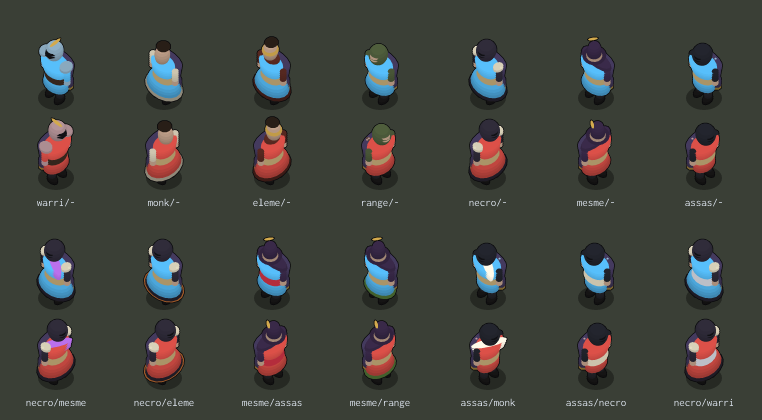
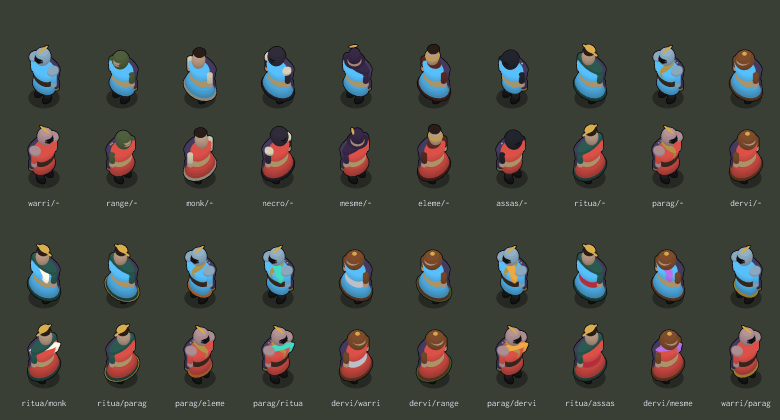
#4180: ritualist, paragon and dervish outfits on the stacked figure (#4274)
From the outfit study: the ritualist in a wrap over a long skirt with a
mantle and a feathered headdress, the paragon in plate and helm under a
tabard with three spears on its back, the dervish in a robe and a
turban with a gold jewel. Builders in the new
outfits-ritualist-paragon-dervish.ts; sprite-stack.ts only dispatches.

The study's tabard showed nothing of the paragon's cloth, so it is a
stripe of it down the plate. Every profession now has an outfit, so
PROFESSION_OUTFITS is a full Record and outfitOf loses its "not drawn
yet" fallback. The frame-fit test takes one accent per kind: a tone
moves no point, and 11 accents x 10 outfits ran past 5 s.

diff --git a/apps/web/src/render/profession-outfits.ts b/apps/web/src/render/profession-outfits.ts
@@ -8,19 +8,24 @@ import type { ProfessionId } from "@vibewars/game-core";
  * a new outfit adds its kinds here and a case to each of its builders.
  */
 
-/** The torso: a warrior's plate, a caster's robe, a short coat, an assassin's tight wrap. */
-export type TorsoKind = "plate" | "robe" | "coat" | "wrap";
+/**
+ * The torso: a warrior's plate, a caster's robe, a short coat, a tight
+ * wrap, a paragon's plate under a tabard.
+ */
+export type TorsoKind = "plate" | "robe" | "coat" | "wrap" | "tabard";
 /** The legs: trousers, or a long robe skirt that hides them. */
 export type LegKind = "trousers" | "robe";
 /** Over the shoulders: pauldrons, a high cloth collar, a cloth mantle, bone spikes, or nothing. */
 export type ShoulderKind = "pauldrons" | "collar" | "mantle" | "spikes" | "none";
 /**
  * The head: a visored helm, a hood, a cowl that hides the face, a
- * wide-brimmed plumed hat, a bare head with or without a circlet.
+ * wide-brimmed plumed hat, a turban, a feathered headdress, a bare head
+ * with or without a circlet.
  */
-export type HeadKind = "helm" | "hood" | "cowl" | "hat" | "circlet" | "bare";
-/** On the back, behind the torso: a quiver, or two crossed blades. */
-export type BackKind = "quiver" | "blades";
+export type HeadKind =
+  "helm" | "hood" | "cowl" | "hat" | "turban" | "headdress" | "circlet" | "bare";
+/** On the back, behind the torso: a quiver, two crossed blades, or a bundle of spears. */
+export type BackKind = "quiver" | "blades" | "spears";
 
 /**
  * An outfit: a kind per slot, and its `cloth`, the second fabric, a dark
@@ -51,8 +56,8 @@ export const WARRIOR_OUTFIT: Outfit = {
   cloth: 0x4a4e58,
 };
 
-/** Each primary's outfit; one with none yet wears the warrior's. */
-export const PROFESSION_OUTFITS: Readonly<Partial<Record<ProfessionId, Outfit>>> = {
+/** Each primary's outfit. */
+export const PROFESSION_OUTFITS: Readonly<Record<ProfessionId, Outfit>> = {
   warrior: WARRIOR_OUTFIT,
   ranger: {
     torso: "coat",
@@ -102,6 +107,30 @@ export const PROFESSION_OUTFITS: Readonly<Partial<Record<ProfessionId, Outfit>>>
     back: "blades",
     cloth: 0x22242c,
   },
+  ritualist: {
+    torso: "wrap",
+    legs: "robe",
+    shoulders: "mantle",
+    head: "headdress",
+    back: undefined,
+    cloth: 0x2a5a52,
+  },
+  paragon: {
+    torso: "tabard",
+    legs: "trousers",
+    shoulders: "pauldrons",
+    head: "helm",
+    back: "spears",
+    cloth: 0xb89a4a,
+  },
+  dervish: {
+    torso: "robe",
+    legs: "robe",
+    shoulders: "none",
+    head: "turban",
+    back: undefined,
+    cloth: 0x7a4a2a,
+  },
 };
 
 /** Each secondary's accent; one with none adds nothing. */
@@ -118,9 +147,9 @@ export const SECONDARY_ACCENTS: Readonly<Partial<Record<ProfessionId, Accent>>> 
   dervish: { kind: "sash", tone: 0xe0a040 },
 };
 
-/** What a body of `primary` wears: the warrior's outfit for none, or one not drawn yet. */
+/** What a body of `primary` wears: the warrior's outfit for none. */
 export function outfitOf(primary: ProfessionId | undefined): Outfit {
-  return (primary === undefined ? undefined : PROFESSION_OUTFITS[primary]) ?? WARRIOR_OUTFIT;
+  return primary === undefined ? WARRIOR_OUTFIT : PROFESSION_OUTFITS[primary];
 }
 
 /** The accent a `secondary` adds: none for no secondary. */

diff --git a/apps/web/src/render/sprite-stack.ts b/apps/web/src/render/sprite-stack.ts
@@ -11,6 +11,12 @@ import {
   wrapSkirtRadii,
 } from "./outfits-necromancer-mesmer-assassin.js";
 import {
+  headdressSlices,
+  spearsSlices,
+  tabardSlices,
+  turbanSlices,
+} from "./outfits-ritualist-paragon-dervish.js";
+import {
   PROFESSION_OUTFITS,
   WARRIOR_OUTFIT,
   type Accent,
@@ -247,6 +253,7 @@ function skirtRadii(outfit: Outfit): readonly number[] {
     case "coat":
       return [0.7, 0.66, 0.62, 0.58];
     case "plate":
+    case "tabard":
     case "robe":
       return [0.62, 0.6, 0.58, 0.56];
     case "wrap":
@@ -278,7 +285,11 @@ function skirtSlices(
     cape([capeBack(motion, -0.3 - 0.06 * lean, 0.32, capeLength, 1 - i / 11)], 0.5 + 0.06 * i);
     push([ellipse(x, 0, r * 0.72, r)], "team", 0.6 + 0.07 * i, true);
   });
-  push([ellipse(0.12 * lean, 0, 0.4, 0.56)], outfit.torso === "plate" ? "belt" : "rope", 0.9);
+  push(
+    [ellipse(0.12 * lean, 0, 0.4, 0.56)],
+    outfit.torso === "plate" || outfit.torso === "tabard" ? "belt" : "rope",
+    0.9,
+  );
   if (accent?.kind === "belt") {
     push([ellipse(0.12 * lean, 0, 0.44, 0.6)], "accent", 0.92, true);
   }
@@ -292,6 +303,7 @@ function torsoShape(kind: TorsoKind): {
 } {
   switch (kind) {
     case "plate":
+    case "tabard":
       return { radii: [0.56, 0.6, 0.64, 0.68, 0.7], sleeve: "team", hand: "metal" };
     case "coat":
     case "wrap":
@@ -316,6 +328,9 @@ function backSlices(figure: Figure, kind: BackKind | undefined, i: number, x: nu
       return;
     case "blades":
       bladesSlices(figure, i, x);
+      return;
+    case "spears":
+      spearsSlices(figure, i, x);
       return;
   }
 }
@@ -343,6 +358,9 @@ function torsoSlices(figure: Figure, outfit: Outfit, accent: Accent | undefined)
       const r = radii[Math.min(i - 2, 4)] ?? 0;
       const x = 0.06 + 0.2 * lean * (i / 7);
       push([ellipse(x, 0, r * 0.66, r)], "team", 0.74 + 0.04 * i, true);
+      if (outfit.torso === "tabard") {
+        tabardSlices(figure, i, x, r);
+      }
       if (accent?.kind === "sash" && i >= 3) {
         push([ellipse(x, 0, 0.2, r * 1.12, 14, 0.5)], "accent", 0.82 + 0.04 * i, true);
       }
@@ -455,6 +473,12 @@ function headSlices({ push, motion }: Figure, kind: HeadKind): void {
       return;
     case "hat":
       hatSlices(push, cx);
+      return;
+    case "turban":
+      turbanSlices(push, cx);
+      return;
+    case "headdress":
+      headdressSlices(push, cx);
       return;
   }
 }

diff --git a/apps/web/src/render/sprite-stack.test.ts b/apps/web/src/render/sprite-stack.test.ts
@@ -496,27 +496,15 @@ describe("profession outfits (#4175)", () => {
     return hit;
   };
 
-  it("dresses every drawn profession its own way (#4175, #4179)", () => {
-    const drawn = [
-      "warrior",
-      "monk",
-      "elementalist",
-      "ranger",
-      "necromancer",
-      "mesmer",
-      "assassin",
-    ] as const;
-    for (const primary of drawn) {
-      expect(PROFESSION_OUTFITS[primary]).toBeDefined();
-    }
-    const looks = drawn.map((primary) => JSON.stringify(standing(outfitOf(primary))));
-    expect(new Set(looks).size).toBe(drawn.length);
+  it("dresses every profession its own way (#4175, #4179, #4180)", () => {
+    expect(OUTFITS).toHaveLength(10);
+    const looks = OUTFITS.map((outfit) => JSON.stringify(standing(outfit)));
+    expect(new Set(looks).size).toBe(OUTFITS.length);
   });
 
-  it("wears the warrior's outfit with no primary, or one with no outfit yet", () => {
+  it("wears the warrior's outfit with no primary, and adds no accent with no secondary", () => {
     expect(outfitOf("warrior")).toBe(WARRIOR_OUTFIT);
     expect(outfitOf(undefined)).toBe(WARRIOR_OUTFIT);
-    expect(outfitOf("ritualist")).toBe(WARRIOR_OUTFIT);
     expect(accentOf(undefined)).toBeUndefined();
   });
 
@@ -586,5 +574,20 @@ describe("profession outfits (#4175)", () => {
     expect(tones("assassin")).toContain("metal");
     expect(tones("assassin")).not.toContain("bone");
     expect(stackTones(0x59c2ff, undefined, outfitOf("necromancer"), undefined).bone).toBe(0xd8d0b8);
+  });
+
+  it("feathers the ritualist, tabards the paragon with spears on its back, turbans the dervish (#4180)", () => {
+    const tones = (primary: "warrior" | "ritualist" | "paragon" | "dervish"): StackTone[] =>
+      standing(outfitOf(primary)).map((slice) => slice.tone);
+    expect(tones("ritualist").at(-1)).toBe("gold");
+    expect(tones("ritualist")).toContain("crest");
+    expect(tones("ritualist")).not.toContain("visor");
+    // The paragon's helm and pauldrons, its tabard's cloth and its spears' shafts.
+    expect(tones("paragon")).toContain("visor");
+    expect(tones("paragon")).toContain("cloth");
+    expect(tones("paragon")).toContain("leather");
+    expect(tones("warrior")).not.toContain("cloth");
+    expect(tones("dervish").at(-1)).toBe("gold");
+    expect(tones("dervish")).not.toContain("hair");
   });
 });

diff --git a/apps/web/src/render/outfits-ritualist-paragon-dervish.ts b/apps/web/src/render/outfits-ritualist-paragon-dervish.ts
@@ -1,0 +1,58 @@
+import { ellipse, type Figure, type Push } from "./sprite-stack.js";
+
+/**
+ * The slices the ritualist's, paragon's and dervish's outfits add to the
+ * stacked figure (#4180), from the outfit study
+ * (`docs/art/profession-outfit-study.svg`): a paragon's tabard over its
+ * plate and the spears on its back, a dervish's turban, a ritualist's
+ * feathered headdress. `stackSlices` dispatches each kind here.
+ */
+
+/**
+ * A tabard's stripe of cloth down the plate, front to back, on torso
+ * slice `i` of radius `r` at `x`: the study's plate, with the outfit's
+ * cloth showing on it.
+ */
+export function tabardSlices({ push }: Figure, i: number, x: number, r: number): void {
+  if (i < 3) {
+    return;
+  }
+  push([ellipse(x, 0, r * 0.68, 0.16, 12)], "cloth", 0.7 + 0.04 * i, true);
+}
+
+/** Three spears on the back at torso slice `i`, `x` behind its centre: shafts, then heads. */
+export function spearsSlices({ push }: Figure, i: number, x: number): void {
+  push(
+    [
+      ellipse(x, -0.16, 0.05, 0.05, 6),
+      ellipse(x, 0, 0.05, 0.05, 6),
+      ellipse(x, 0.16, 0.05, 0.05, 6),
+    ],
+    i === 6 ? "metal" : "leather",
+    0.6 + 0.06 * i,
+    true,
+  );
+}
+
+/** A wound turban round `cx`, the face under its front, a gold jewel on top. */
+export function turbanSlices(push: Push, cx: number): void {
+  [0.34, 0.42, 0.46, 0.46, 0.4, 0.3].forEach((r, i) => {
+    push([ellipse(cx, 0, r * 1.05, r)], "cloth", 0.7 + 0.07 * i);
+    if (i === 3) {
+      push([ellipse(cx + 0.06, 0, r * 0.8, r * 0.7)], "skin", 0.95, true);
+    }
+  });
+  push([ellipse(cx, 0, 0.12, 0.12, 8)], "gold", 1.05);
+}
+
+/** A bare head round `cx`, a fan of feathers up and back in the crest's colour, bound in gold. */
+export function headdressSlices(push: Push, cx: number): void {
+  [0.26, 0.3, 0.32, 0.32, 0.28].forEach((r, i) => {
+    push([ellipse(cx, 0, r * 1.05, r)], "skin", 0.7 + 0.07 * i);
+  });
+  push([ellipse(cx - 0.06, 0, 0.3, 0.3, 12)], "hair", 0.95);
+  for (const y of [-0.5, -0.25, 0, 0.25, 0.5]) {
+    push([ellipse(cx - 0.12, y * 0.7, 0.07, 0.15, 6)], "crest", 1.05, true);
+  }
+  push([ellipse(cx - 0.12, 0, 0.2, 0.3, 10)], "gold", 1.08);
+}

diff --git a/apps/web/src/render/stack-atlas.test.ts b/apps/web/src/render/stack-atlas.test.ts
@@ -164,7 +164,11 @@ describe("StackAtlas (ADR-0057, #4031)", () => {
     const r = STACK_BAKE_RADIUS * STACK_BAKE_SCALE;
     const pad = STACK_OUTLINE_WIDTH * STACK_BAKE_SCALE;
     const outfits = Object.values(PROFESSION_OUTFITS);
-    const accents = [undefined, ...Object.values(SECONDARY_ACCENTS)];
+    // An accent's tone moves no point: one accent of each kind covers every shape.
+    const accents = [
+      undefined,
+      ...new Map(Object.values(SECONDARY_ACCENTS).map((accent) => [accent.kind, accent])).values(),
+    ];
     for (const outfit of outfits) {
       for (const accent of accents) {
         for (const pose of STACK_POSES) {

diff --git a/docs/art/visual-style.md b/docs/art/visual-style.md
@@ -241,7 +241,7 @@ outlines, and the noise fill on a map without one.
   helmeted and caped, 1 px outline `#08080a`, shaded dark at its feet to full
   colour at its cap, its robe in friend or foe colour, its profession glyph
   on a dark badge disc on top. Its outfit follows its primary profession
-  and carries one accent of its secondary (#4175, #4179, `profession-outfits.ts`):
+  and carries one accent of its secondary (#4175, #4179, #4180, `profession-outfits.ts`):
   `profession-outfits-match.png`, ally over foe. It turns in 16 headings, the atlas baking
   the nine facing left and mirroring the rest (`bakedFrame`, #4060), and its
   shadow lies on the ground under it, not in its frame. A creature with a
